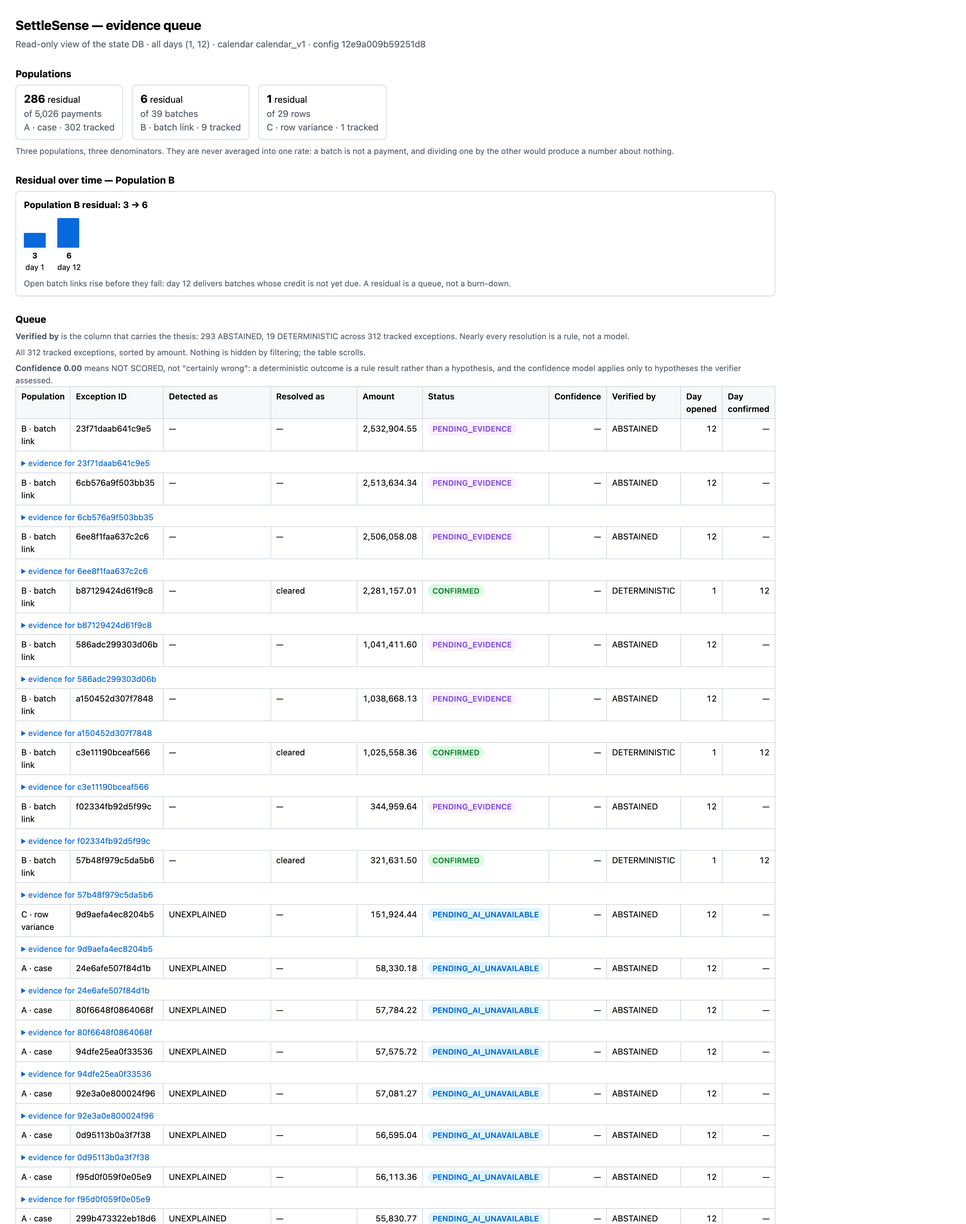
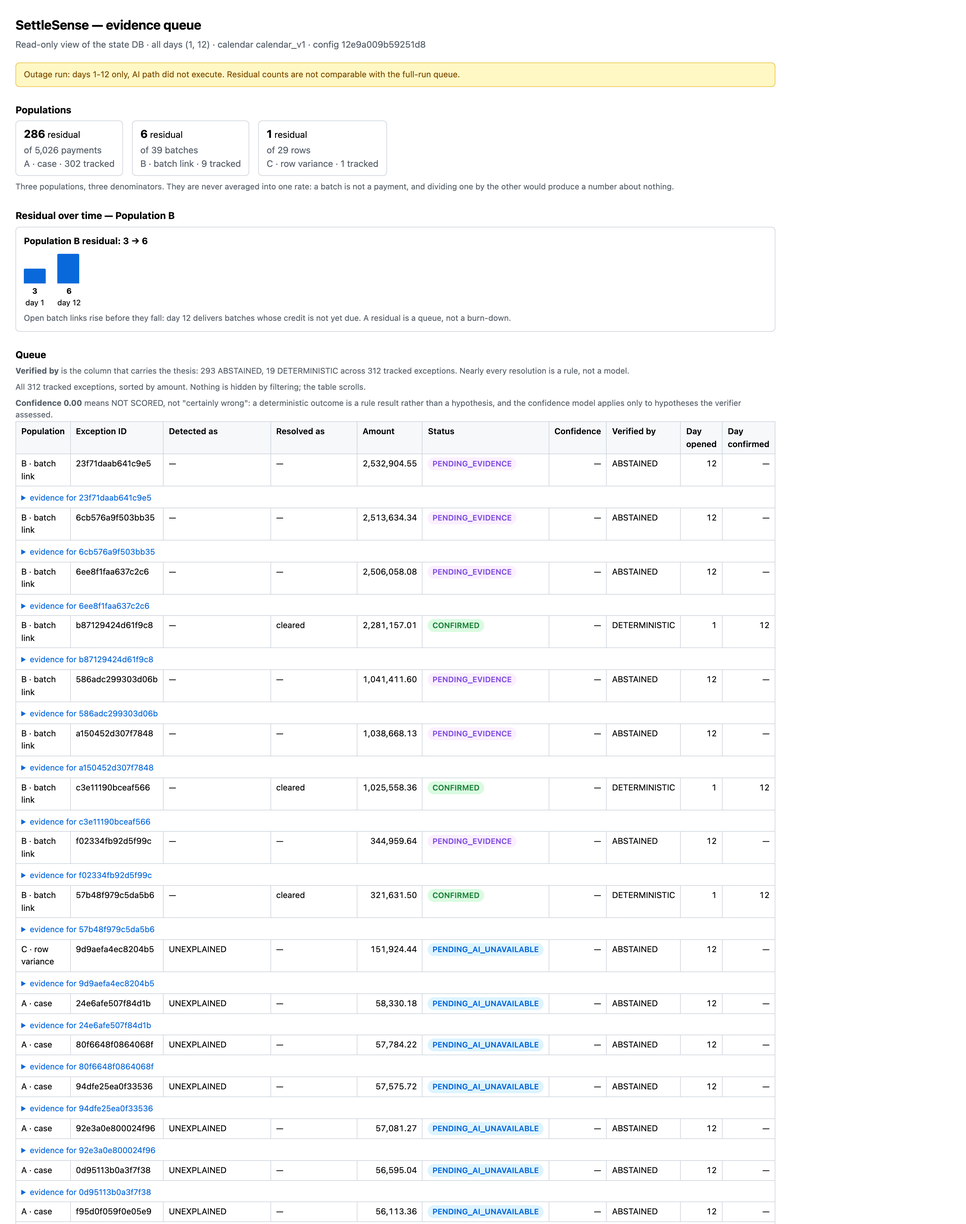
fix: confidence was never persisted, and the outage page did not say so
TWO DEFECTS, BOTH FOUND BY READING COMMITTED SCREENSHOTS RATHER THAN BY A TEST.

1. THE CONFIDENCE WAS REAL AND THE STORE THREW IT AWAY.

queue-ai-verified.png showed Confidence 0.00 on both AI_VERIFIED rows, under a
caption saying 0.00 means NOT SCORED. Checked rather than assumed: the verifier
had scored that pair

  ConfidenceBreakdown(score=1.0000, verification_passed=1,
    residual_within_tolerance=1, evidence_completeness=1,
    candidate_separation=1, freshness_ok=1)

`confirm_exception` had no confidence parameter and never wrote the column, so
the row kept the `_UNSCORED` zero it was opened with. Not a caption problem -
a silent data-loss bug wearing a caption's clothes. Every number on screen was
wrong and nothing failed, because nothing compared the two.

`confirm_exception` now takes `confidence`, defaulting to None meaning DO NOT
WRITE ONE: a rule result has no confidence and must keep its zero, or rules and
hypotheses end up on one scale, which is the comparison this evaluation exists
to keep apart. Stored as the Decimal's own string and NOT through `money()` -
confidence is a RATIO, and quantizing to paise would round a four-place score
to two on the way into a column that reads back unquantized.

The guard asserts EQUALITY between the loop's computed score and the persisted
value, not "greater than zero" - a second bug writing a constant 1.00 would
satisfy the weaker check. And it asserts deterministic rows still hold zero, so
[…]

diff --git a/reports/ui/queue.html b/reports/ui/queue.html
@@ -21,6 +21,9 @@ td.num { text-align: right; font-variant-numeric: tabular-nums; }
 .seq { border: 1px solid #d0d7de; border-radius: 6px; padding: 10px 12px;
        margin: 0 0 16px; }
 .caption { color: #57606a; font-size: 12.5px; margin: 6px 0 0; }
+.scope { color: #7d4e00; background: #fff8c5; border: 1px solid #eac54f;
+         border-radius: 6px; padding: 8px 12px; margin: 10px 0 0;
+         font-size: 13px; }
 details { margin: 4px 0 0; }
 summary { cursor: pointer; color: #0969da; font-size: 12.5px; }
 .panel { border-left: 3px solid #d0d7de; margin: 8px 0 12px 4px;
@@ -125,7 +128,7 @@ day  24 seq  46 │ OPEN                   → CONFIRMED          DETERMINISTIC 
 day  24 seq  47 │ OPEN                   → CONFIRMED          DETERMINISTIC  DETERMINISTIC_REEVALUATION</div></div></details></td></tr><tr><td>A · case</td><td>30768ef7f35dffa7</td><td>UNEXPLAINED</td><td>PARTIAL_CAPTURE</td><td class="num">41,672.11</td><td><span class="pill" style="color:#1a7f37;background:#dafbe1">CONFIRMED</span></td><td class="num">—</td><td>DETERMINISTIC</td><td class="num">12</td><td class="num">24</td></tr><tr><td colspan="10" style="border-top:none"><details><summary>evidence for 30768ef7f35dffa7</summary><div class="panel"><h4>1 · Money trail</h4><p class="note">No source rows resolve for this exception.</p><h4>2 · AI hypothesis</h4><p class="note">No model response was recorded for this exception. See <code>fixtures/llm_manifest.json</code>.</p><h4>3 · Verification</h4><p class="note">No hypothesis-level check applies: this exception was settled by the deterministic passes, and the audit trail below is the record of that.</p><h4>4 · Abstention</h4><p class='note'>Not abstained — this exception was resolved.</p><h4>5 · Audit trail</h4><div class="chain">day  12 seq 121 │ —                      → OPEN               DETERMINISTIC  case 5c4561ad657c69b6: UNEXPLAINED
 day  24 seq  48 │ OPEN                   → CONFIRMED          DETERMINISTIC  DETERMINISTIC_REEVALUATION</div></div></details></td></tr><tr><td>A · case</td><td>082a19d5bbeba070</td><td>UNEXPLAINED</td><td>T_PLUS_N_TIMING</td><td class="num">40,692.26</td><td><span class="pill" style="color:#1a7f37;background:#dafbe1">CONFIRMED</span></td><td class="num">—</td><td>DETERMINISTIC</td><td class="num">12</td><td class="num">24</td></tr><tr><td colspan="10" style="border-top:none"><details><summary>evidence for 082a19d5bbeba070</summary><div class="panel"><h4>1 · Money trail</h4><p class="note">No source rows resolve for this exception.</p><h4>2 · AI hypothesis</h4><p class="note">No model response was recorded for this exception. See <code>fixtures/llm_manifest.json</code>.</p><h4>3 · Verification</h4><p class="note">No hypothesis-level check applies: this exception was settled by the deterministic passes, and the audit trail below is the record of that.</p><h4>4 · Abstention</h4><p class='note'>Not abstained — this exception was resolved.</p><h4>5 · Audit trail</h4><div class="chain">day  12 seq 111 │ —                      → OPEN               DETERMINISTIC  case 5068ab52f2c33fb4: UNEXPLAINED
 day  24 seq  49 │ OPEN                   → CONFIRMED          DETERMINISTIC  DETERMINISTIC_REEVALUATION</div></div></details></td></tr><tr><td>A · case</td><td>2ba3e4f607f178ab</td><td>UNEXPLAINED</td><td>cleared</td><td class="num">40,666.31</td><td><span class="pill" style="color:#1a7f37;background:#dafbe1">CONFIRMED</span></td><td class="num">—</td><td>DETERMINISTIC</td><td class="num">12</td><td class="num">24</td></tr><tr><td colspan="10" style="border-top:none"><details><summary>evidence for 2ba3e4f607f178ab</summary><div class="panel"><h4>1 · Money trail</h4><p class="note">No source rows resolve for this exception.</p><h4>2 · AI hypothesis</h4><p class="note">No model response was recorded for this exception. See <code>fixtures/llm_manifest.json</code>.</p><h4>3 · Verification</h4><p class="note">No hypothesis-level check applies: this exception was settled by the deterministic passes, and the audit trail below is the record of that.</p><h4>4 · Abstention</h4><p class='note'>Not abstained — this exception was resolved.</p><h4>5 · Audit trail</h4><div class="chain">day  12 seq 210 │ —                      → OPEN               DETERMINISTIC  case a678cefdde8f4213: UNEXPLAINED
-day  24 seq  50 │ OPEN                   → CONFIRMED          DETERMINISTIC  DETERMINISTIC_REEVALUATION</div></div></details></td></tr><tr><td>A · case</td><td>9d2748605e599894</td><td>DUPLICATE_CANDIDATE</td><td>DUPLICATE_CANDIDATE</td><td class="num">39,644.16</td><td><span class="pill" style="color:#1a7f37;background:#dafbe1">CONFIRMED</span></td><td class="num">0.00</td><td>AI_VERIFIED</td><td class="num">24</td><td class="num">24</td></tr><tr><td colspan="10" style="border-top:none"><details><summary>evidence for 9d2748605e599894</summary><div class="panel"><h4>1 · Money trail</h4><div class="chain">     ledger │ ORD_4430E6EDE984       customer=CUST-PROFILE_C-00284 gross=39644.16
+day  24 seq  50 │ OPEN                   → CONFIRMED          DETERMINISTIC  DETERMINISTIC_REEVALUATION</div></div></details></td></tr><tr><td>A · case</td><td>9d2748605e599894</td><td>DUPLICATE_CANDIDATE</td><td>DUPLICATE_CANDIDATE</td><td class="num">39,644.16</td><td><span class="pill" style="color:#1a7f37;background:#dafbe1">CONFIRMED</span></td><td class="num">1.00</td><td>AI_VERIFIED</td><td class="num">24</td><td class="num">24</td></tr><tr><td colspan="10" style="border-top:none"><details><summary>evidence for 9d2748605e599894</summary><div class="panel"><h4>1 · Money trail</h4><div class="chain">     ledger │ ORD_4430E6EDE984       customer=CUST-PROFILE_C-00284 gross=39644.16
     payment │ PAY_A8AF7CF9629D       authorized=39644.16 captured=39644.16 status=captured
  settlement │ SET_7C19CB92F564       type=payment gross=39644.16 fee=0.00 tax=0.00 net=39644.16
       batch │ BAT_325D963A2E2E       utr=130390B16149D21F net_total=4270225.79 settled=2026-09-21
@@ -135,7 +138,7 @@ day  24 seq  50 │ OPEN                   → CONFIRMED          DETERMINISTIC 
       batch │ BAT_325D963A2E2E       utr=130390B16149D21F net_total=4270225.79 settled=2026-09-21
  settlement │ SET_D2ADFB4E14FB       type=payment gross=39644.16 fee=0.00 tax=0.00 net=39644.16
       batch │ BAT_325D963A2E2E       utr=130390B16149D21F net_total=4270225.79 settled=2026-09-21</div><p class="note">The chain stops before a bank credit — which is the finding, not a rendering gap.</p><h4>2 · AI hypothesis</h4><p class="note">The verifier took <b>rank 0</b>.</p><ol style='margin:4px 0'><li><b>rank 0</b> nominates <code>ORD_4430E6EDE984</code> — <b style="color:#1a7f37">VERIFIED</b><br><span class="note">Both orders have identical amounts, dates, and SKUs. The invoice number for ORD_4430E6EDE984 includes an additional suffix &#x27;-R031&#x27;, suggesting it might be a duplicate or a revised entry.</span></li><li><b>rank 1</b> nominates <code>ORD_EB9D05B89AA8</code> — <span class="reject">REJECTED — the nominated row ORD_EB9D05B89AA8 has 2 settlement lines against 1 for ORD_4430E6EDE984; a double entry does not settle more than the order it duplicates</span><br><span class="note">Both orders have identical amounts, dates, and SKUs. The invoice number for ORD_EB9D05B89AA8 lacks the &#x27;-R031&#x27; suffix, suggesting it might be the original entry, with ORD_4430E6EDE984 being a duplicate or revised entry.</span></li><li><b>rank 2</b> nominates <code>ORD_4430E6EDE984</code> — <b style="color:#1a7f37">VERIFIED</b><br><span class="note">The orders are indistinguishable based on the available data. The presence of the &#x27;-R031&#x27; suffix in the invoice number of ORD_4430E6EDE984 could indicate a revision, but this is speculative without further context.</span></li></ol><h4>3 · Verification</h4><p><b>PASSED</b> — checks run: <code>both_rows_exist, same_customer, same_gross, distinct_order_id, nomination_in_pair, nominated_has_no_distinct_chain</code><br><span class="note">computed residual 0.00</span></p><h4>4 · Abstention</h4><p class='note'>Not abstained — this exception was resolved.</p><h4>5 · Audit trail</h4><div class="chain">day  24 seq 286 │ —                      → OPEN               DETERMINISTIC  case 8ecca035314aded6: DUPLICATE_CANDIDATE
-day  24 seq 297 │ OPEN                   → CONFIRMED          AI_VERIFIED    AI_VERIFIED duplicate pair ORD_4430E6EDE984/ORD_EB9D05B89AA8; nominated ORD_4430E6EDE984</div></div></details></td></tr><tr><td>A · case</td><td>a6a07afd5a1bead2</td><td>DUPLICATE_CANDIDATE</td><td>DUPLICATE_CANDIDATE</td><td class="num">39,644.16</td><td><span class="pill" style="color:#1a7f37;background:#dafbe1">CONFIRMED</span></td><td class="num">0.00</td><td>AI_VERIFIED</td><td class="num">24</td><td class="num">24</td></tr><tr><td colspan="10" style="border-top:none"><details><summary>evidence for a6a07afd5a1bead2</summary><div class="panel"><h4>1 · Money trail</h4><div class="chain">     ledger │ ORD_4430E6EDE984       customer=CUST-PROFILE_C-00284 gross=39644.16
+day  24 seq 297 │ OPEN                   → CONFIRMED          AI_VERIFIED    AI_VERIFIED duplicate pair ORD_4430E6EDE984/ORD_EB9D05B89AA8; nominated ORD_4430E6EDE984</div></div></details></td></tr><tr><td>A · case</td><td>a6a07afd5a1bead2</td><td>DUPLICATE_CANDIDATE</td><td>DUPLICATE_CANDIDATE</td><td class="num">39,644.16</td><td><span class="pill" style="color:#1a7f37;background:#dafbe1">CONFIRMED</span></td><td class="num">1.00</td><td>AI_VERIFIED</td><td class="num">24</td><td class="num">24</td></tr><tr><td colspan="10" style="border-top:none"><details><summary>evidence for a6a07afd5a1bead2</summary><div class="panel"><h4>1 · Money trail</h4><div class="chain">     ledger │ ORD_4430E6EDE984       customer=CUST-PROFILE_C-00284 gross=39644.16
     payment │ PAY_A8AF7CF9629D       authorized=39644.16 captured=39644.16 status=captured
  settlement │ SET_7C19CB92F564       type=payment gross=39644.16 fee=0.00 tax=0.00 net=39644.16
       batch │ BAT_325D963A2E2E       utr=130390B16149D21F net_total=4270225.79 settled=2026-09-21

diff --git a/reports/ui/queue-outage.html b/reports/ui/queue-outage.html
@@ -21,6 +21,9 @@ td.num { text-align: right; font-variant-numeric: tabular-nums; }
 .seq { border: 1px solid #d0d7de; border-radius: 6px; padding: 10px 12px;
        margin: 0 0 16px; }
 .caption { color: #57606a; font-size: 12.5px; margin: 6px 0 0; }
+.scope { color: #7d4e00; background: #fff8c5; border: 1px solid #eac54f;
+         border-radius: 6px; padding: 8px 12px; margin: 10px 0 0;
+         font-size: 13px; }
 details { margin: 4px 0 0; }
 summary { cursor: pointer; color: #0969da; font-size: 12.5px; }
 .panel { border-left: 3px solid #d0d7de; margin: 8px 0 12px 4px;
@@ -34,7 +37,7 @@ summary { cursor: pointer; color: #0969da; font-size: 12.5px; }
 <h1>SettleSense — evidence queue</h1>
 <p class="sub">Read-only view of the state DB · all days (1, 12) ·
 calendar calendar_v1 · config 12e9a009b59251d8</p>
-
+<p class="scope">Outage run: days 1-12 only, AI path did not execute. Residual counts are not comparable with the full-run queue.</p>
 <h2>Populations</h2>
 <div class="pops"><div class="pop"><b>286</b> residual<br><span>of 5,026 payments</span><br><span>A · case · 302 tracked</span></div><div class="pop"><b>6</b> residual<br><span>of 39 batches</span><br><span>B · batch link · 9 tracked</span></div><div class="pop"><b>1</b> residual<br><span>of 29 rows</span><br><span>C · row variance · 1 tracked</span></div></div><p class="caption">Three populations, three denominators. They are never averaged into one rate: a batch is not a payment, and dividing one by the other would produce a number about nothing.</p>
 

diff --git a/tests/test_m10_store_path.py b/tests/test_m10_store_path.py
@@ -28,6 +28,7 @@ from __future__ import annotations
 import ast
 import json
 from datetime import date
+from decimal import Decimal
 from pathlib import Path
 from typing import Any
 
@@ -464,4 +465,98 @@ def test_the_queue_now_shows_an_ai_verified_row(
     print(
         f"\n  queue thesis column: {counts[VERIFIED_DETERMINISTIC]} DETERMINISTIC, "
         f"{counts[VERIFIED_AI]} AI_VERIFIED"
+    )
+
+
+@pytest.mark.charter_guard
+def test_the_persisted_confidence_is_the_score_the_verifier_computed(
+    config: AppConfig, dataset: Any, truth: frozenset[str], fresh_store: Any
+) -> None:
+    """FOUND IN A COMMITTED SCREENSHOT, not by a test.
+
+    `queue-ai-verified.png` showed Confidence 0.00 on both AI_VERIFIED rows,
+    under a caption saying 0.00 means NOT SCORED. Both were false: the verifier
+    had scored that pair 1.0000 on all five components, and
+    `confirm_exception` had no confidence parameter, so the row kept the
+    `_UNSCORED` zero it was opened with. Every number on screen was wrong and
+    nothing failed.
+
+    So the assertion is EQUALITY between what the loop computed and what the
+    store holds - not "greater than zero", which a second bug writing a
+    constant 1.00 would also satisfy.
+    """
+    store = fresh_store()
+    index = pair_index(dataset)
+    result = run_store_ai_stage(store, dataset, config, ReplayLLMClient(), DAY, index)
+    assert result.confirmed, "nothing was confirmed; there is no score to check"
+
+    rows = {row.exception_id: row for row in store.get_queue(ALL_STATUSES)}
+    checked = 0
+    for pair, outcome in result.outcomes:
+        if not outcome.confirmed:
+            continue
+        assert outcome.confidence is not None, "a confirmation carried no confidence at all"
+        expected = outcome.confidence.score
+        assert expected > Decimal("0"), (
+            "the verifier scored this confirmation ZERO, so the caption needs to "
+            "distinguish 'not scored' from 'scored zero' rather than the store "
+            "needing a fix"
+        )
+        for exception_id in pair.exception_ids:
+            assert rows[exception_id].confidence == expected, (
+                f"{exception_id} holds {rows[exception_id].confidence}, the verifier "
+                f"computed {expected}"
+            )
+            checked += 1
+    assert checked, "no confirmed row was checked"
+
+    # NOT SCORED STILL MEANS NOT SCORED. A deterministic row must keep its zero;
+    # writing a confidence for a rule outcome would put rules and hypotheses on
+    # one scale, which is the comparison this project exists to keep apart.
+    deterministic = [
+        row for row in rows.values() if row.resolved_by is ResolutionSource.DETERMINISTIC
+    ]
+    assert deterministic, "no deterministic rows to compare against"
+    assert all(row.confidence == Decimal("0") for row in deterministic), (
+        "a rule outcome acquired a confidence score"
+    )
+    print(
+        f"\n  {checked} AI rows hold the verifier's own {expected}; "
+        f"{len(deterministic)} deterministic rows still unscored at 0"
+    )
+
+
+@pytest.mark.charter_guard
+def test_the_confidence_caption_matches_what_the_column_can_hold(
+    config: AppConfig, dataset: Any, fresh_store: Any
+) -> None:
+    """The caption says 0.00 means NOT SCORED. That must stay true of the page.
+
+    It was false for two rows: they were scored, and scored 1.0000. The caption
+    is only honest if every 0.00 the table can display really is an unscored
+    row - which means no AI-verified row may render 0.00 while carrying a
+    non-zero score.
+    """
+    from settlesense.ui.queue import VERIFIED_AI, build_rows
+
+    store = fresh_store()
+    run_store_ai_stage(store, dataset, config, ReplayLLMClient(), DAY, pair_index(dataset))
+    rows = build_rows(store)
+
+    ai_rows = [row for row in rows if row.verified_by == VERIFIED_AI]
+    assert ai_rows, "no AI rows; the caption claim is untested"
+    for row in ai_rows:
+        rendered = row.confidence_or_placeholder
+        assert rendered != "0.00", (
+            f"{row.exception_id} renders 0.00 under a caption saying that means "
+            f"NOT SCORED, while carrying a score of {row.confidence}"
+        )
+        assert rendered == f"{row.confidence:.2f}"
+
+    caption = (REPO / "settlesense" / "ui" / "render.py").read_text(encoding="utf-8")
+    assert "means NOT SCORED" in caption
+    assert "reports/ui/queue-ai-verified.png"  # the artifact this guards
+    print(
+        f"\n  {len(ai_rows)} AI rows render "
+        f"{sorted({row.confidence_or_placeholder for row in ai_rows})}, never 0.00"
     )

diff --git a/tests/test_m10_degradation.py b/tests/test_m10_degradation.py
@@ -619,3 +619,72 @@ def test_no_clock_is_read_by_the_outage_path() -> None:
     assert derived > earlier, "the arrival day does not move the date"
     assert (derived - earlier).days == OUTAGE_DAY - 1
     print(f"\n  no clock in the outage path; day 1 -> {earlier}, day {OUTAGE_DAY} -> {derived}")
+
+
+OUTAGE_NOTICE = (
+    "Outage run: days 1-12 only, AI path did not execute. Residual counts are "
+    "not comparable with the full-run queue."
+)
+
+
+@pytest.mark.charter_guard
+def test_the_outage_page_says_its_numbers_are_not_comparable(
+    config: AppConfig, fresh_store: Any, tmp_path: Path
+) -> None:
+    """Present on the outage page, ABSENT from the normal one. Both halves.
+
+    The outage store covers days 1-12 and its AI path never ran, so its
+    Population A residual is 286 against the full run's 50. Both figures are
+    correct and they are NOT comparable - and two screenshots side by side give
+    a reader no way to know that.
+
+    DERIVED FROM THE STORE, not passed in by the caller. A flag would be
+    forgotten on exactly the run where the warning matters, and a page carrying
+    it wrongly is worse than one carrying it not at all - so the presence of a
+    PENDING_AI_UNAVAILABLE row IS the condition. This test proves both
+    directions of that derivation, because a notice that appeared on every page
+    would be as useless as one that appeared on none.
+    """
+    from settlesense.ui.render import render_page
+
+    as_of = as_of_for_arrival_day(12, config)
+
+    healthy = _store(config, tmp_path / "healthy.db", days=(1, 12))
+    dataset = healthy.cumulative_dataset(12, DATA, config)
+    clean_page = render_page(healthy, dataset, config, as_of)
+    assert "Outage run:" not in clean_page, (
+        "the notice appears on a page with no outage, so it says nothing"
+    )
+
+    broken = _store(config, tmp_path / "broken.db", days=(1, 12))
+    result = run_ai_stage(broken, dataset, config, OutageLLMClient(), 12)
+    assert result.pending_unavailable, "no outage occurred; the notice would be wrong"
+    outage_page = render_page(broken, dataset, config, as_of)
+    assert OUTAGE_NOTICE in outage_page, (
+        "the outage page does not state that its residual counts are not comparable"
+    )
+
+    # AND THE COMMITTED ARTIFACTS, which are what a reader actually opens.
+    committed_outage = (REPO / "reports" / "ui" / "queue-outage.html").read_text(encoding="utf-8")
+    committed_normal = (REPO / "reports" / "ui" / "queue.html").read_text(encoding="utf-8")
+    assert OUTAGE_NOTICE in committed_outage, "reports/ui/queue-outage.html is stale"
+    assert "Outage run:" not in committed_normal, "the full-run page carries the outage notice"
+
+    # THE DAY RANGE IS REALISED, not typed into the template. A store over a
+    # DIFFERENT range must say so rather than repeating "1-12".
+    #
+    # Days 1/12/24 rather than a single day: `_sequence_block` asserts the
+    # residual RISES before it falls, which is the point that block exists to
+    # make, and a one-day store has no sequence to rise. That assertion caught
+    # this test trying to render a page nobody would ever build.
+    wider = _store(config, tmp_path / "wider.db", days=CHECKPOINTS)
+    wide_dataset = wider.cumulative_dataset(OUTAGE_DAY, DATA, config)
+    wide_result = run_ai_stage(wider, wide_dataset, config, OutageLLMClient(), OUTAGE_DAY)
+    assert wide_result.pending_unavailable, "the wider store had no outage either"
+    wide_page = render_page(wider, wide_dataset, config, as_of_for_arrival_day(OUTAGE_DAY, config))
+    assert "days 1-24 only" in wide_page, "the day range is hardcoded, not read"
+
+    print(
+        f"\n  notice on the outage page ({len(result.pending_unavailable)} rows pending), "
+        "absent from the full run, day range read from the store"
+    )

diff --git a/settlesense/ui/render.py b/settlesense/ui/render.py
@@ -25,6 +25,7 @@ from settlesense.exceptions.store import (
     Population,
 )
 from settlesense.ingest import DayDataset
+from settlesense.types import ExceptionStatus
 from settlesense.ui.queue import (
     SEQUENCE_CAPTION,
     EvidencePanel,
@@ -77,6 +78,9 @@ td.num { text-align: right; font-variant-numeric: tabular-nums; }
 .seq { border: 1px solid #d0d7de; border-radius: 6px; padding: 10px 12px;
        margin: 0 0 16px; }
 .caption { color: #57606a; font-size: 12.5px; margin: 6px 0 0; }
+.scope { color: #7d4e00; background: #fff8c5; border: 1px solid #eac54f;
+         border-radius: 6px; padding: 8px 12px; margin: 10px 0 0;
+         font-size: 13px; }
 details { margin: 4px 0 0; }
 summary { cursor: pointer; color: #0969da; font-size: 12.5px; }
 .panel { border-left: 3px solid #d0d7de; margin: 8px 0 12px 4px;
@@ -339,13 +343,31 @@ def render_page(
     )
     truncation = f'<p class="caption">{_esc(scope_notice(len(shown), len(rows)))}</p>'
     day_note = f"day {day}" if day is not None else f"all days ({', '.join(str(d) for d in days)})"
+
+    # DERIVED FROM THE STORE, NEVER PASSED IN. A caller who had to remember to
+    # set an `outage=True` flag would forget it on exactly the run where the
+    # warning matters, and a page carrying it wrongly would be worse than one
+    # carrying it not at all. The presence of a PENDING_AI_UNAVAILABLE row IS
+    # the condition: nothing else in this project writes that status.
+    #
+    # WHY A READER NEEDS IT. The outage store covers days 1-12 and its AI path
+    # never ran, so its Population A residual is 286 against the full run's 50.
+    # Both numbers are correct and they are not comparable, and two screenshots
+    # side by side give a reader no way to know that.
+    outage_note = ""
+    if any(row.status is ExceptionStatus.PENDING_AI_UNAVAILABLE for row in rows):
+        span = f"{days[0]}-{days[-1]}" if len(days) > 1 else str(days[0])
+        outage_note = (
+            f'<p class="scope">Outage run: days {_esc(span)} only, AI path did not '
+            "execute. Residual counts are not comparable with the full-run queue.</p>"
+        )
     return f"""<!doctype html>
 <html lang="en"><head><meta charset="utf-8">
 <title>SettleSense — evidence queue</title><style>{_CSS}</style></head><body>
 <h1>SettleSense — evidence queue</h1>
 <p class="sub">Read-only view of the state DB · {_esc(day_note)} ·
 calendar {_esc(config.calendar.version)} · config {_esc(config.config_hash)}</p>
-
+{outage_note}
 <h2>Populations</h2>
 {_population_block(summaries)}
 

diff --git a/settlesense/exceptions/store.py b/settlesense/exceptions/store.py
@@ -729,6 +729,7 @@ class ExceptionStore:
         arrival_day: int,
         actor: AuditActor = AuditActor.DETERMINISTIC,
         resolved_by: ResolutionSource = ResolutionSource.DETERMINISTIC,
+        confidence: Decimal | None = None,
     ) -> bool:
         """Confirm once. Replay is a no-op. Returns whether it was NEW.
 
@@ -736,6 +737,17 @@ class ExceptionStore:
         explaining; emitting the accounting entry is a separate act by a
         separate actor, and conflating them would make "we explained it" and
         "we posted it" the same claim.
+
+        `confidence` DEFAULTS TO None, MEANING "DO NOT WRITE ONE". A rule
+        result has no confidence and must keep the `_UNSCORED` zero it was
+        opened with; a verified hypothesis has one and it has to survive.
+
+        This parameter did not exist until 2026-08-28, and its absence was a
+        silent data-loss bug rather than a missing feature: the M10 store path
+        confirmed a duplicate pair the verifier had scored 1.0000 on all five
+        components, and the queue rendered 0.00 - under a caption saying 0.00
+        means NOT SCORED. Every number on screen was wrong and nothing failed.
+        Found by reading a committed screenshot.
 
         INSERT OR IGNORE on the idempotency key is what makes a re-run of day
         3 harmless: the second attempt inserts nothing, transitions nothing,
@@ -775,6 +787,17 @@ class ExceptionStore:
                 evidence_ids=evidence_ids,
                 arrival_day=arrival_day,
             )
+        # WRITTEN BEFORE THE TRANSITION, so a reader who sees CONFIRMED never
+        # sees it beside a stale score. Stored as the Decimal's own string and
+        # NOT through `money()`: confidence is a RATIO, not money, and
+        # quantizing to paise would round a four-place score to two on the way
+        # into a column that reads back unquantized.
+        if confidence is not None:
+            self._connection.execute(
+                "UPDATE exceptions SET confidence = ? WHERE exception_id = ?",
+                (str(confidence), exception.exception_id),
+            )
+            self._connection.commit()
         self._transition(
             exception_id=exception.exception_id,
             target=ExceptionStatus.CONFIRMED,

diff --git a/settlesense/ai/pairing.py b/settlesense/ai/pairing.py
@@ -227,6 +227,13 @@ def run_store_ai_stage(
                     arrival_day=arrival_day,
                     actor=AuditActor.AI_VERIFIED,
                     resolved_by=ResolutionSource.AI_VERIFIED,
+                    # THE SCORE THE VERIFIER COMPUTED, carried through. Omitting
+                    # it left the row at the `_UNSCORED` zero it was opened with,
+                    # and the queue rendered 0.00 for a hypothesis that had
+                    # scored 1.0000 - under a caption saying 0.00 means NOT
+                    # SCORED. Confirmed outcomes always carry a confidence here,
+                    # because `should_auto_confirm` cannot pass without one.
+                    confidence=outcome.confidence.score if outcome.confidence is not None else None,
                 )
                 confirmed.append(exception_id)
             else:
